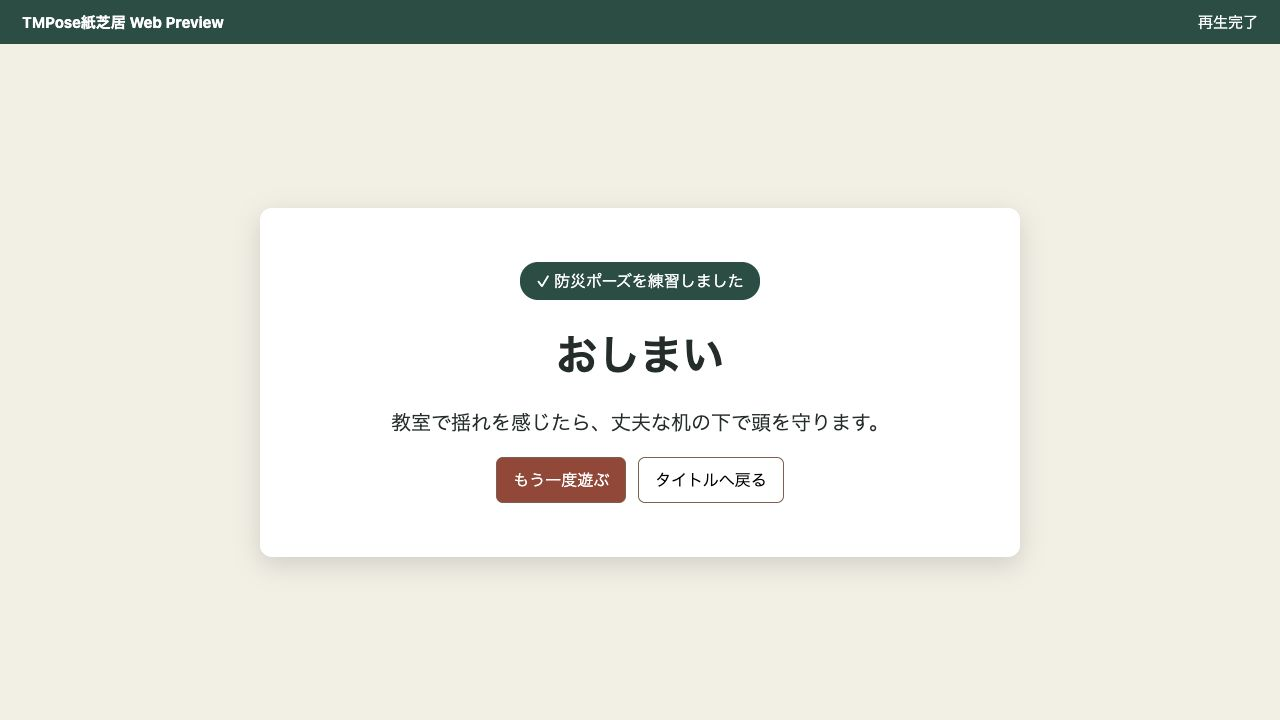
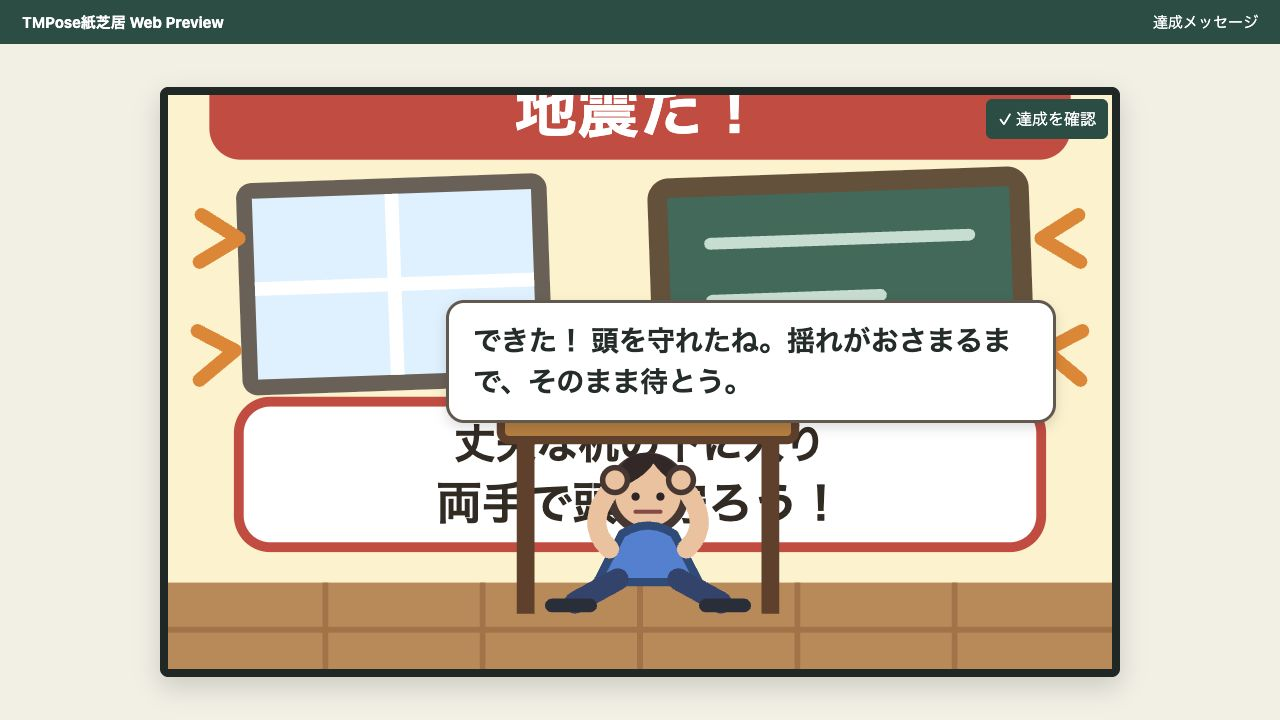
docs(tutorial): ポーズ見本と達成sceneへ同期する (#127)
Closes #126

diff --git a/scripts/fixtures/tutorial-screenshot.html b/scripts/fixtures/tutorial-screenshot.html
@@ -107,13 +107,13 @@
       add-background-and-actor.yml.txt
       add-pose-scene.yml.txt</div>`;
     const frames = {
-      "P-01": () => `<div class="sample-page"><div class="sample-nav"><strong>📚 TMPose紙芝居</strong><span>トップ</span><span>ドキュメント</span><span>チュートリアル</span><span>作品</span><span>ダウンロード</span></div><div class="sample-main"><p>作品 › 公式作品</p><div class="sample-card"><span class="tag">DSL 4.0 チュートリアル</span><h1>地震だ！頭を守ろう</h1><p>教室で地震の揺れを感じたときの安全行動を、具体的なポーズで練習する3場面の公式サンプルです。</p><div class="sample-actions"><button class="primary">Web版を開く</button><button>スターターをダウンロード</button><button>完成版SB3をダウンロード</button></div><h3>固定情報</h3><p>Version 4.0.0-rc.2　・　MPL-2.0　・　カメラを使用</p></div></div></div>`,
+      "P-01": () => `<div class="sample-page"><div class="sample-nav"><strong>📚 TMPose紙芝居</strong><span>トップ</span><span>ドキュメント</span><span>チュートリアル</span><span>作品</span><span>ダウンロード</span></div><div class="sample-main"><p>作品 › 公式作品</p><div class="sample-card"><span class="tag">DSL 4.0 チュートリアル</span><h1>地震だ！頭を守ろう</h1><p>教室で地震の揺れを感じたときの安全行動を、見本と達成メッセージ付きで練習する4場面の公式サンプルです。</p><div class="sample-actions"><button class="primary">Web版を開く</button><button>スターターをダウンロード</button><button>完成版SB3をダウンロード</button></div><h3>固定情報</h3><p>Version 4.0.0-rc.2　・　MPL-2.0　・　カメラを使用</p></div></div></div>`,
       "P-02": () => shell(`<div class="license"><h1>「参加型」AI紙芝居</h1><h2>Version 4.0.0-rc.2 (2026/08/12)</h2><div class="work">🏫 地震だ！頭を守ろう</div><p>本アプリのソースコードはMozilla Public License 2.0で提供されています。</p><p>教室での安全行動をポーズで練習します。</p></div>`, "タイトル"),
       "P-03": () => `<div style="width:100%;height:100%;display:grid;place-items:center;background:#000"><div class="loader"></div></div>`,
       "P-04": () => shell(`<div style="position:relative">${stage({ quake: true, pose: true, speech: "丈夫な机の下で、両手を頭へ" })}<div class="permission"><h2>カメラの使用を許可しますか？</h2><p>このサイトはポーズを判定するため、カメラを使用します。映像は端末内で処理されます。</p><div class="buttons"><button>許可しない</button><button class="primary">許可する</button></div></div></div>`, "カメラを使用"),
       "P-05": () => shell(`<div style="position:relative">${stage({ quake: true, pose: true, badges: true })}<div class="bubble">「頭を守る」のポーズ！<br><small>姿勢を低くし、両手を頭の左右へ</small></div></div>`),
       "P-06": () => shell(`<div style="position:relative">${stage({ quake: true, pose: true, badges: true })}<div class="success"><div><strong>ポーズ成功！</strong><span>「頭を守る」ポーズを確認しました</span></div></div></div>`),
-      "P-07": () => shell(`<div class="finish"><span class="done">✓ 防災ポーズを練習しました</span><h1>おしまい</h1><p>教室で揺れを感じたら、丈夫な机の下で頭を守ります。</p><div class="buttons" style="justify-content:center"><button class="primary">もう一度遊ぶ</button><button>タイトルへ戻る</button></div></div>`, "再生完了"),
+      "P-07": () => shell(`<div style="position:relative">${stage({ quake: true, pose: true, speech: "できた！ 頭を守れたね。揺れがおさまるまで、そのまま待とう。" })}<div class="watch">✓ 達成を確認</div></div>`, "達成メッセージ"),
       "C-01": () => shell(tree(false), "スターター"),
       "C-02": () => editor(`<div style="height:100%;display:grid;place-items:center"><h1>「参加型」AI紙芝居</h1></div>`),
       "C-03": () => editor(`<div class="menu-grid"><button>📁<br>ファイルを開く</button><button>↻<br>もう一度</button><button class="wide disabled">配布用SB3を作る</button><button>ⓘ<br>アプリ情報</button><button>🌐<br>言語</button></div>`),
@@ -126,7 +126,7 @@
       "C-09": () => shell(`<div style="position:relative">${stage({ quake: true, pose: true, speech: "自分の身を守るため、丈夫な机の下に入り、両手で頭を守ろう！" })}<div class="watch">✓ 更新済み</div></div>`, "更新しました"),
       "C-10": () => shell(`<div style="position:relative">${stage({ quake: true, pose: true, badges: true })}<div class="badge left">見本: 頭を守る<span class="bar" style="--progress:82%"></span></div><div class="camera-note">姿勢を低くし、両手を頭の左右へ</div><div class="watch">↻</div></div>`, "ポーズ認識（合成fixture）"),
       "C-11": () => editor(`<div class="diagnostic"><strong>エラー: 不正な命令ファイル</strong><code>story.kamishibai.yaml: 37<br>K4-SCHEMA-UNKNOWN-KEY<br>Student.sya は未知の命令です。Student.say に直してください。</code></div>`),
-      "C-12": () => editor(`<div style="position:relative;height:100%">${stage({ quake: true, pose: true, speech: "できた！ 揺れがおさまるまで待とう。" })}<div class="watch">tutorial-story-built.sb3</div></div>`, "完成したSB3を読み込みました"),
+      "C-12": () => editor(`<div style="position:relative;height:100%">${stage({ quake: true, pose: true, speech: "できた！ 頭を守れたね。揺れがおさまるまで、そのまま待とう。" })}<div class="watch">tutorial-story-built.sb3</div></div>`, "完成したSB3を読み込みました"),
       "C-14": () => editor(`<div class="menu-grid"><button>📁<br>ファイルを開く</button><button>↻<br>もう一度</button><button class="wide">⬇<br>配布用SB3を作る</button><button>ⓘ<br>アプリ情報</button><button>🌐<br>言語</button></div>`),
     };
     document.getElementById("root").innerHTML = (frames[frame] || frames["P-05"])();

diff --git a/docs/tutorials/index.md b/docs/tutorials/index.md
@@ -9,8 +9,8 @@ Copyright © 2026 Hiroya Kubo. この文書は[CC BY-SA 4.0](https://creativecom
 次の表から、いまの目的に合う方を選んでください。迷ったら、先に「紙芝居で遊ぶ」へ進みます。
 
 完成例は、教室で「地震だ！」と気づいた参加者が、自分の身を守るために丈夫な机の下へ入り、両手で
-頭を守るポーズを取る3場面の作品です。「何が起きたか」「なぜ動くか」「どんなポーズをするか」を
-一続きで確かめられます。
+頭を守るポーズを取り、最後にできたことを確認する4場面の作品です。「何が起きたか」「なぜ動くか」
+「どんなポーズをするか」「何を達成したか」を一続きで確かめられます。
 
 | やりたいこと              | こんな人向け                             |     時間 | 最初にすること                 | できあがり                          |
 | ------------------------- | ---------------------------------------- | -------: | ------------------------------ | ----------------------------------- |

diff --git a/docs/tutorials/README.md b/docs/tutorials/README.md
@@ -104,8 +104,8 @@ overlay、pose feedback、camera controlを含む公開RCの固定実装を
 で確認しています。さらに本体#555のbrowser distribution buildを公開プレリリース`4.0.0-rc.2`へ反映し、
 `browser-authoring` gateを`published`、`ready: true`として追跡します。
 
-浦島太郎、my-urashima、チュートリアル用最小作品の4.0 Web版、SB3、integrityはsamples PR #103と
-Pages deploy run `31649836275`で公開済みです。
+浦島太郎、my-urashima、チュートリアル用最小作品の4.0 Web版、SB3、integrityはsamples PR #105と
+Pages deploy run `31656477345`で公開済みです。
 公開surfaceは[操作説明書のmachine-readable manifest](../../sources/dsl4/user-guide-4.0-public-surfaces.json)へ
 固定しています。チュートリアル用starterとaddition kitも同じrelease入力から生成され、実ファイルの
 sizeとSHA-256を公開manifestと照合しました。`tutorial-sample` gateは`published`、`ready: true`です。
